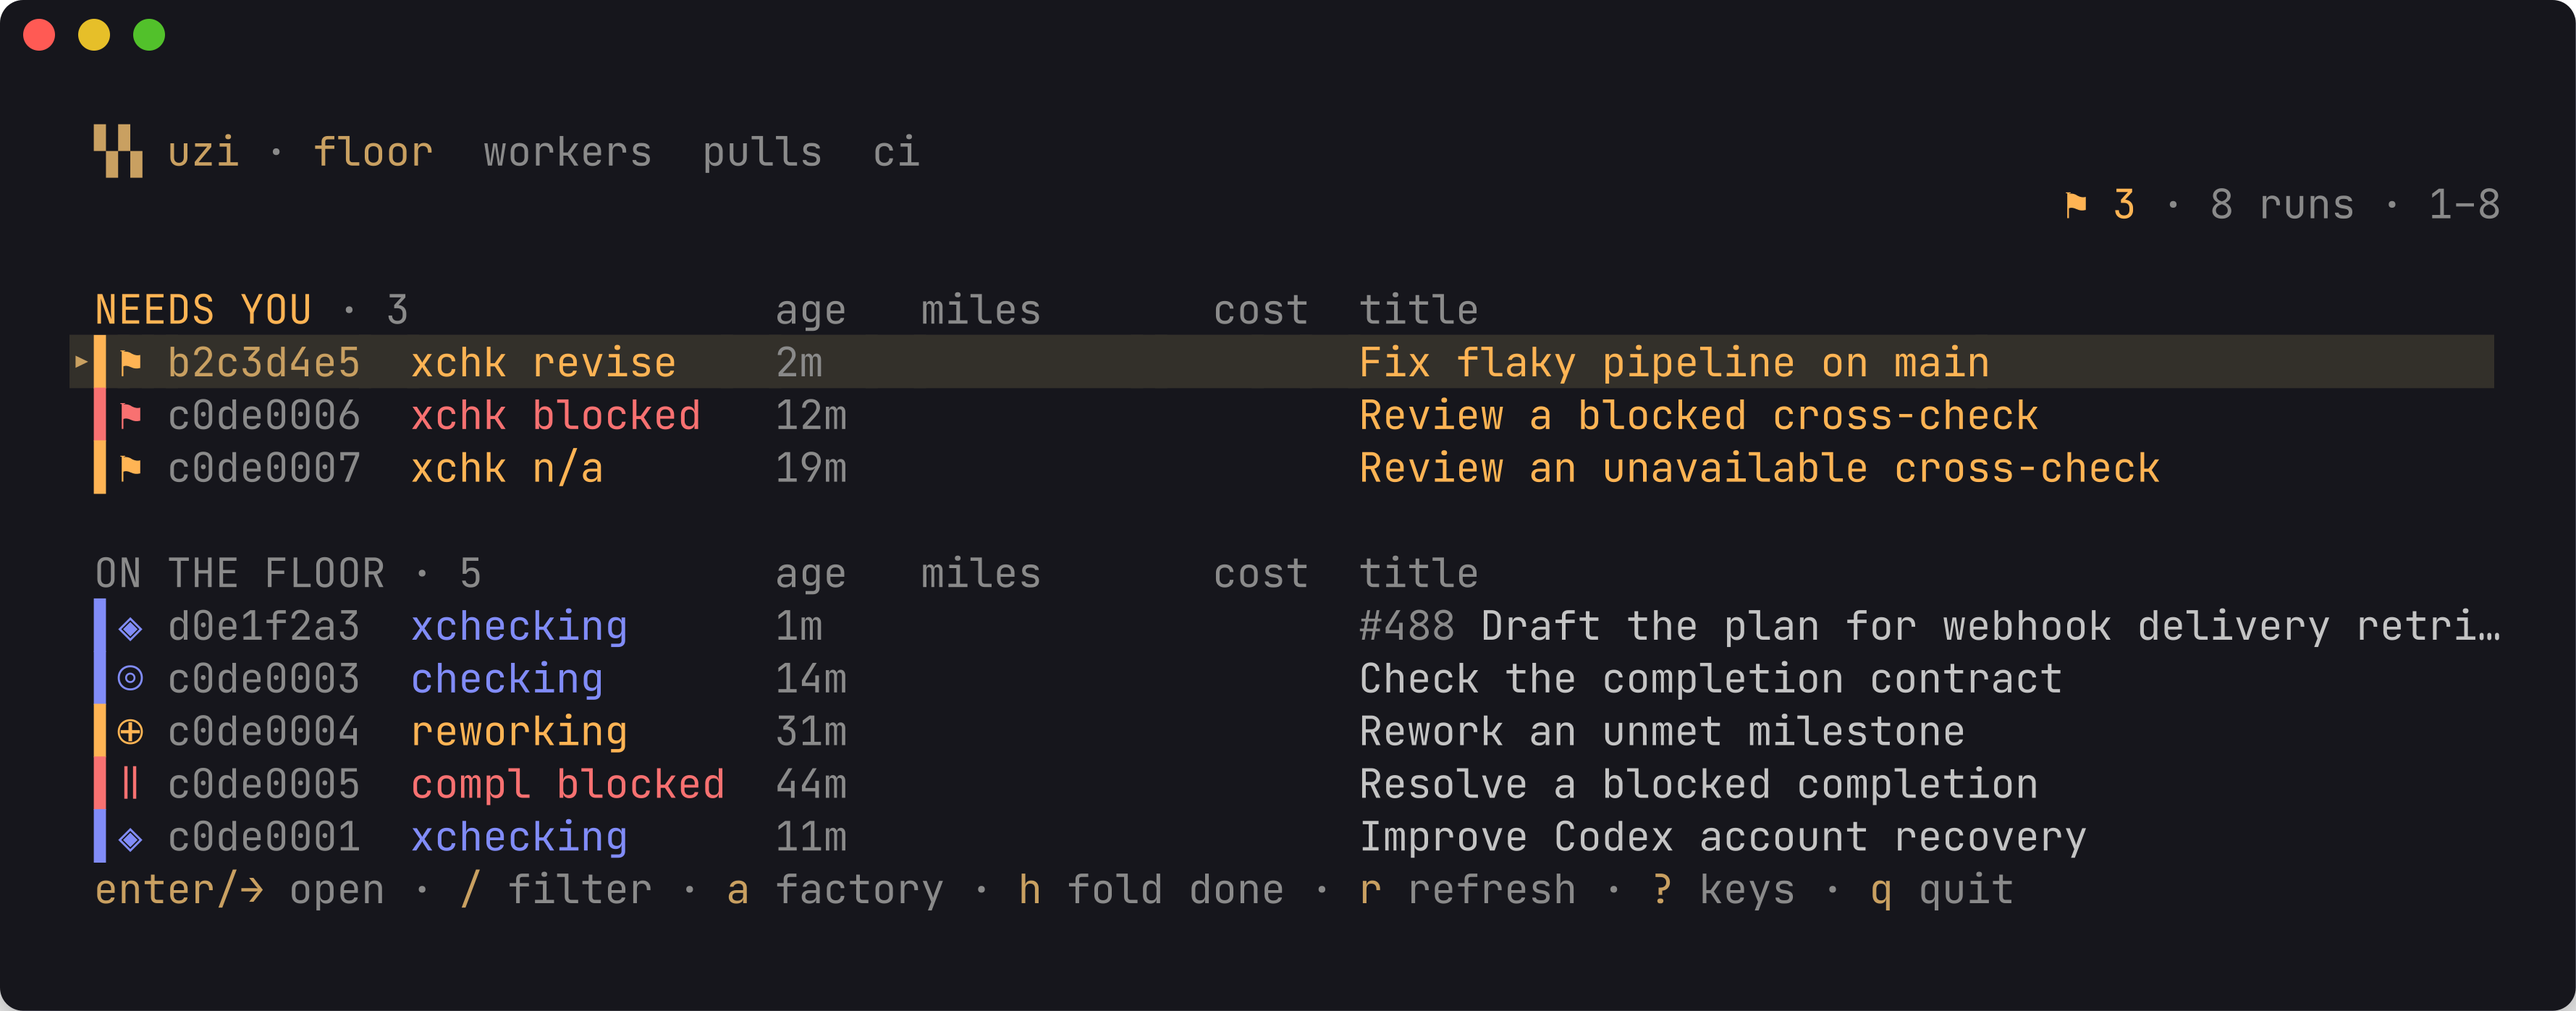
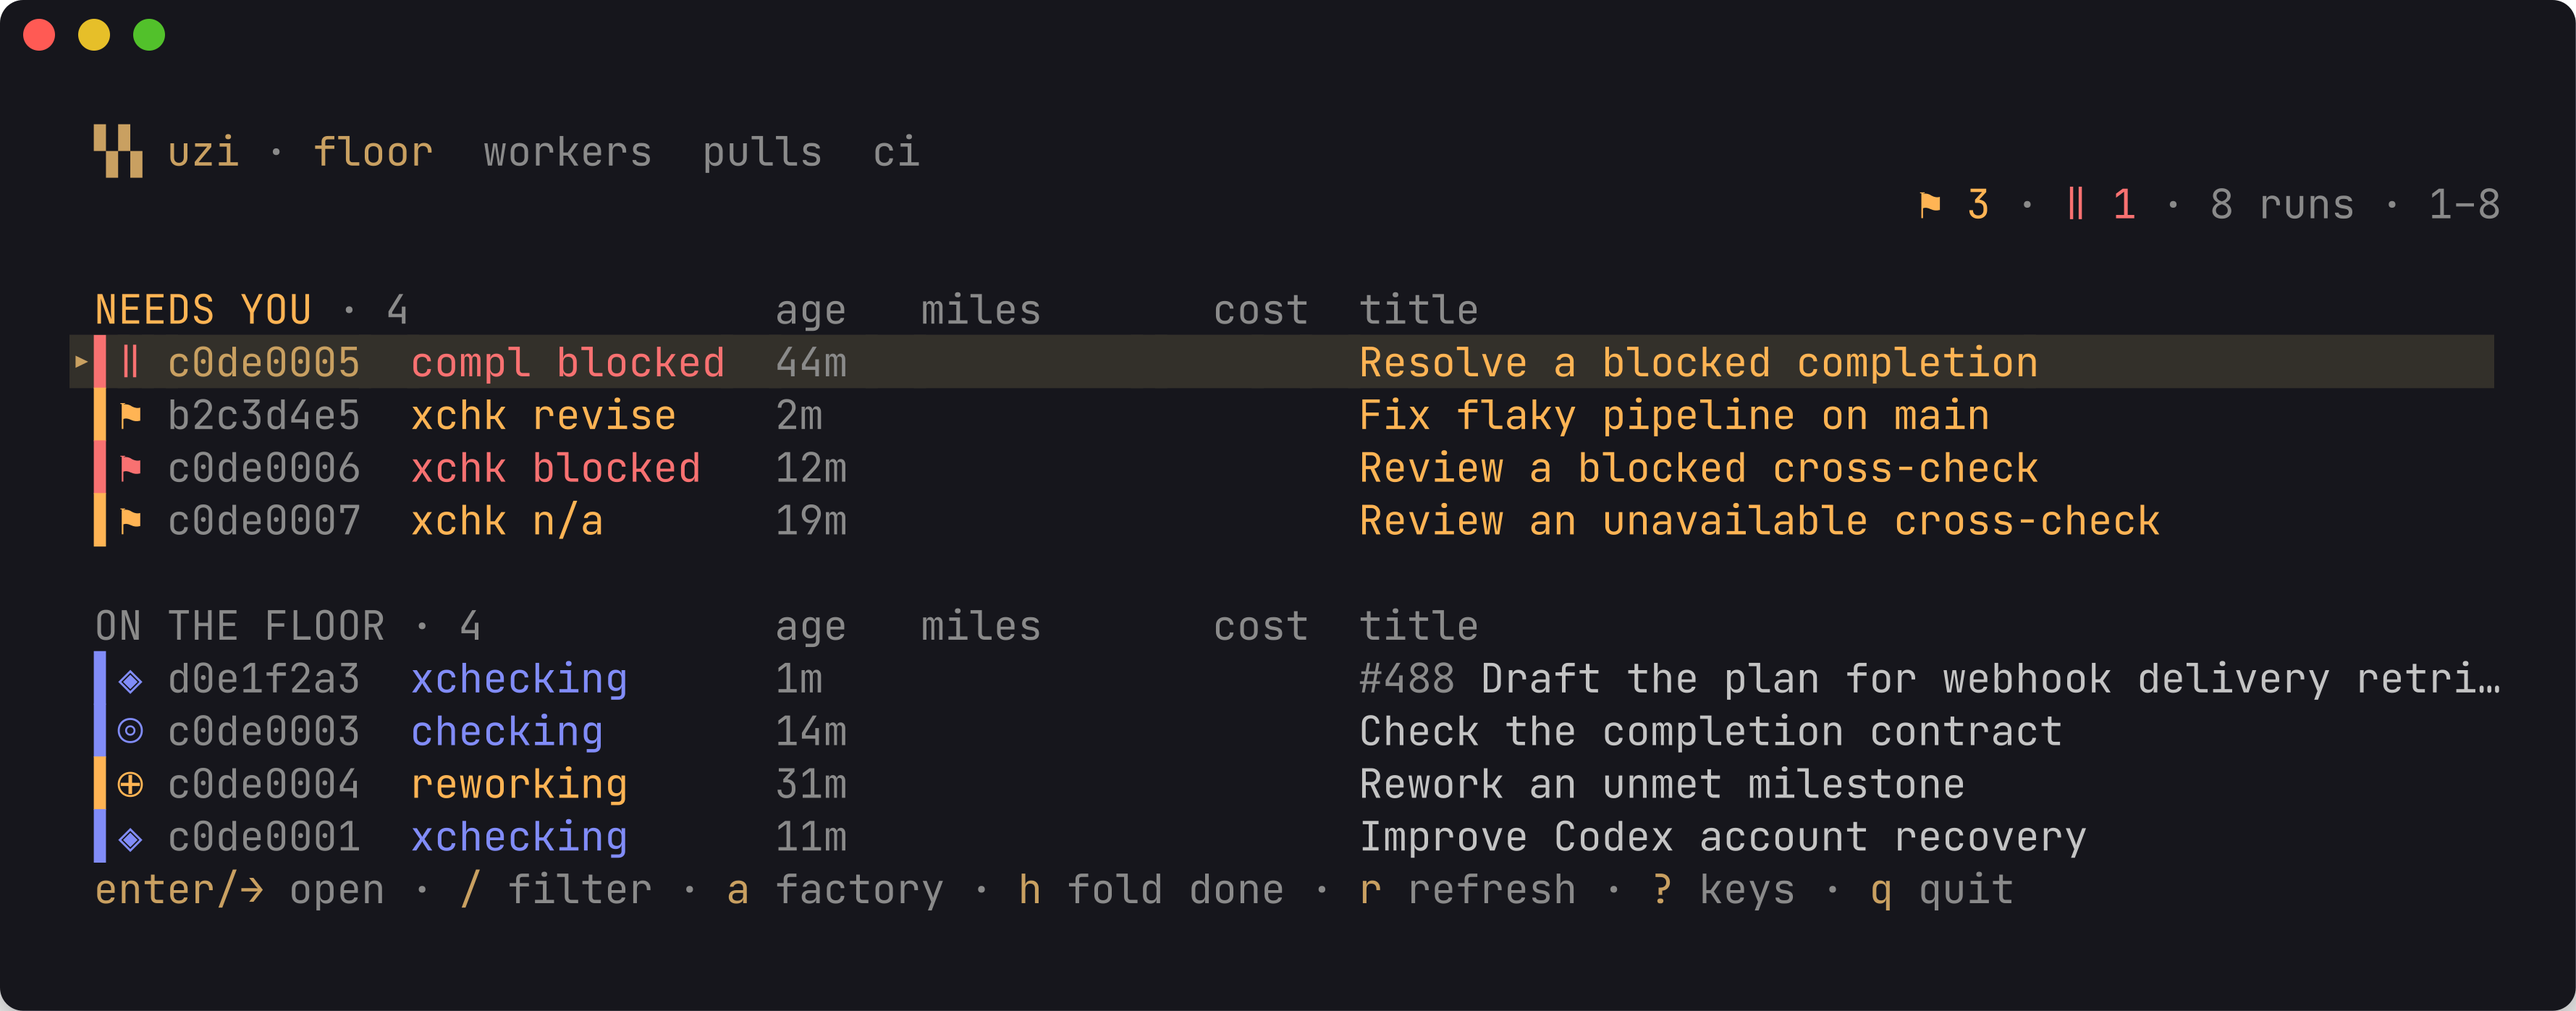
fix(tui): group blocked completion under needs you
Count the owner decision separately in the floor summary.

Maintainer decision 2026-11-14 for #4345.

diff --git a/api/cmd/uzi/tui_board.go b/api/cmd/uzi/tui_board.go
@@ -226,6 +226,10 @@ func runBand(status string, isRevising bool) int {
 	return bandFloor
 }
 
+func isCompletionBlockedTUI(r apitypes.RunDTO) bool {
+	return r.Status == statusPaused && r.CompletionPhase == "blocked"
+}
+
 // runBandOf is runBand over a list row, plus the one band decision the status cannot make
 // alone: a run held on its Codex account that needs the owner to re-log in (PRD #1590
 // relogin_required) is the owner's turn, so it bands into NEEDS YOU. Every other Codex hold
@@ -233,8 +237,9 @@ func runBand(status string, isRevising bool) int {
 // (PRD #1732 D14) resumes only on the owner's Enable or token switch. Provider unavailable
 // holds also require the owner to Resume, Stop or Cancel. Both are NEEDS YOU. Every band decision on the board
 // (the ordering, the eyebrow counts, the row's title ink) goes through here so they agree.
+// Issue #4345: a paused completion hold needs an owner decision, so it also belongs here.
 func runBandOf(r apitypes.RunListItemDTO) int {
-	if isDiskOwnerHold(r.RunDTO) || isForgeOwnerHold(r.RunDTO) || codexReloginHold(r.RunDTO) || isOwnerRequiredWorkerHold(r.RunDTO) || isSpendLimitHold(r.RunDTO) || isBoardOwnerHold(r.RunDTO) {
+	if isCompletionBlockedTUI(r.RunDTO) || isDiskOwnerHold(r.RunDTO) || isForgeOwnerHold(r.RunDTO) || codexReloginHold(r.RunDTO) || isOwnerRequiredWorkerHold(r.RunDTO) || isSpendLimitHold(r.RunDTO) || isBoardOwnerHold(r.RunDTO) {
 		return bandNeedsYou
 	}
 	return runBand(r.Status, r.IsRevising)
@@ -1279,14 +1284,17 @@ func (m tuiModel) syncedScrollAt(capacity int) int {
 	return start
 }
 
-// boardSummary is the top-right glyph cluster: ⚑ N · ✎ N · ➤ N · ⚿ N · ⊘ N · ▲ N · <total> runs.
+// boardSummary is the top-right glyph cluster: ⚑ N · ✎ N · ➤ N · ⚿ N · ‖ N · ⊘ N · ▲ N · <total> runs.
 // Zero-count segments are dropped, so a healthy factory reads simply "N runs". Computed
 // over m.board.runs so it does not shrink under a filter. Approval, input, follow-up
-// and Codex relogin each have a segment. The ⊘ segment counts credential-disabled
+// Codex relogin and completion-blocked holds each have a segment. The ⊘ segment counts credential-disabled
 // provider-unavailable and iteration owner holds; their rows distinguish the typed reason.
 func (m tuiModel) boardSummary() string {
-	approvals, inputs, followups, relogins, ownerHolds, warn := 0, 0, 0, 0, 0, 0
+	approvals, inputs, followups, relogins, completionBlocks, ownerHolds, warn := 0, 0, 0, 0, 0, 0, 0
 	for _, r := range m.board.runs {
+		if isCompletionBlockedTUI(r.RunDTO) {
+			completionBlocks++
+		}
 		if codexReloginHold(r.RunDTO) {
 			relogins++
 		}
@@ -1324,6 +1332,9 @@ func (m tuiModel) boardSummary() string {
 	}
 	if relogins > 0 {
 		segs = append(segs, paintSeg(m.pal.amber, nil, false, codexReloginGlyph+" "+itoa(relogins)))
+	}
+	if completionBlocks > 0 {
+		segs = append(segs, paintSeg(m.pal.alarm, nil, false, "‖ "+itoa(completionBlocks)))
 	}
 	if ownerHolds > 0 {
 		segs = append(segs, paintSeg(m.pal.amber, nil, false, credDisabledGlyph+" "+itoa(ownerHolds)))

diff --git a/api/cmd/uzi/tui_check_states_test.go b/api/cmd/uzi/tui_check_states_test.go
@@ -128,6 +128,33 @@ func TestTUICompletionBlockedWordFitsNarrowBoard(t *testing.T) {
 	}
 }
 
+func TestTUICompletionBlockedNeedsYouBandAndSummary(t *testing.T) {
+	blocked := apitypes.RunListItemDTO{RunDTO: apitypes.RunDTO{
+		ID: "blocked-1", Kind: "issue", Status: statusPaused, CompletionPhase: "blocked",
+		HoldReason: checkPtr("completion_blocked"), IssueTitle: "Owner decision needed",
+	}}
+	ordinary := apitypes.RunListItemDTO{RunDTO: apitypes.RunDTO{
+		ID: "paused-1", Kind: "issue", Status: statusPaused, IssueTitle: "Owner paused it",
+	}}
+	if got := runBandOf(blocked); got != bandNeedsYou {
+		t.Errorf("completion-blocked band = %d, want NEEDS YOU", got)
+	}
+	if got := runBandOf(ordinary); got != bandFloor {
+		t.Errorf("ordinary paused band = %d, want ON THE FLOOR", got)
+	}
+	rows := []apitypes.RunListItemDTO{blocked, ordinary}
+	m := tuiTestModel(t, &uzicli.FakeClient{Runs: rows}, "")
+	next, _ := m.Update(boardRunsMsg{reqID: m.board.waitID, runs: rows})
+	m = next.(tuiModel)
+	view := stripANSI(m.View().Content)
+	if !strings.Contains(view, "NEEDS YOU · 1") || !strings.Contains(view, "ON THE FLOOR · 1") {
+		t.Errorf("band counts did not split the owner decision from an ordinary pause:\n%s", view)
+	}
+	if summary := stripANSI(m.boardSummary()); !strings.Contains(summary, "‖ 1") || strings.Contains(summary, "⚑ 1") {
+		t.Errorf("board summary = %q, want a distinct completion-block count", summary)
+	}
+}
+
 func TestTUICompletionAndCrossCheckAsciiBoardAndDetail(t *testing.T) {
 	run := apitypes.RunDTO{ID: "check-001", Kind: "issue", Status: "running", CompletionPhase: "reworking",
 		CrossCheckActive: checkPtr("code"), CompletionUnmet: []string{"m3\x1b[2J\u202e"}, CompletionAttempts: 2}

diff --git a/api/cmd/uzi/tui_render.go b/api/cmd/uzi/tui_render.go
@@ -417,7 +417,7 @@ func checkRunState(r apitypes.RunDTO, isRevising bool) (glyph, word, tone string
 			return "⚑", "xchk n/a", "warn"
 		}
 	}
-	if r.Status == statusPaused && r.CompletionPhase == "blocked" {
+	if isCompletionBlockedTUI(r) {
 		return "‖", "compl blocked", "danger"
 	}
 	if r.Status == "running" {

diff --git a/specs/human.md b/specs/human.md
@@ -1917,7 +1917,7 @@ Design record: issue #4209 (epic #3873).
 
 Design record: issue #4345 (Overview epic #3873, TUI parity).
 
-- The floor's one state word and single-cell glyph show checking completion, reworking unmet milestones, a blocked completion hold, a live plan or code cross-check, and a plan-gate revise, block, or unavailable reason. Existing human stops, stalled health, account cooldown, and a revising plan keep precedence. Completion wins over a simultaneous advisory code check on the row; detail shows both. (AI-synced 2026-11-14)
+- The floor's one state word and single-cell glyph show checking completion, reworking unmet milestones, a blocked completion hold, a live plan or code cross-check, and a plan-gate revise, block, or unavailable reason. Existing human stops, stalled health, account cooldown, and a revising plan keep precedence. Completion wins over a simultaneous advisory code check on the row; detail shows both. A completion-blocked hold belongs in NEEDS YOU and adds a distinct `‖ N` summary count (maintainer decision 2026-11-14). (AI-synced 2026-11-14)
 - The single-run API detail read carries the same live `cross_check_active` presence as the lists, so direct TUI entry and refresh do not depend on a board snapshot. The run detail names each applicable fact; `uzi run get` prints `CROSS_CHECK` while live. Unmet milestone ids are sanitized. (AI-synced 2026-11-14)
 
 ## Demo mode branding

diff --git a/api/internal/uzidocs/embed/cli.md b/api/internal/uzidocs/embed/cli.md
@@ -2337,7 +2337,9 @@ The floor state word distinguishes `checking`, `reworking`, `compl blocked`,
 `NO_COLOR`. A run's detail names its completion phase and any live plan or
 advisory code cross-check on separate lines; `uzi run get` prints a
 `CROSS_CHECK` row while either check is live. The detail read refreshes this
-presence from the server rather than keeping a board snapshot.
+presence from the server rather than keeping a board snapshot. A held
+completion-blocked run appears under NEEDS YOU and has its own `‖ N` count in
+the floor summary, since it needs an owner decision.
 
 The floor summary, workers list and worker detail share one request chain,
 polling every 5s while any is visible, including an unfocused top pane.

diff --git a/docs/cli.md b/docs/cli.md
@@ -2337,7 +2337,9 @@ The floor state word distinguishes `checking`, `reworking`, `compl blocked`,
 `NO_COLOR`. A run's detail names its completion phase and any live plan or
 advisory code cross-check on separate lines; `uzi run get` prints a
 `CROSS_CHECK` row while either check is live. The detail read refreshes this
-presence from the server rather than keeping a board snapshot.
+presence from the server rather than keeping a board snapshot. A held
+completion-blocked run appears under NEEDS YOU and has its own `‖ N` count in
+the floor summary, since it needs an owner decision.
 
 The floor summary, workers list and worker detail share one request chain,
 polling every 5s while any is visible, including an unfocused top pane.
